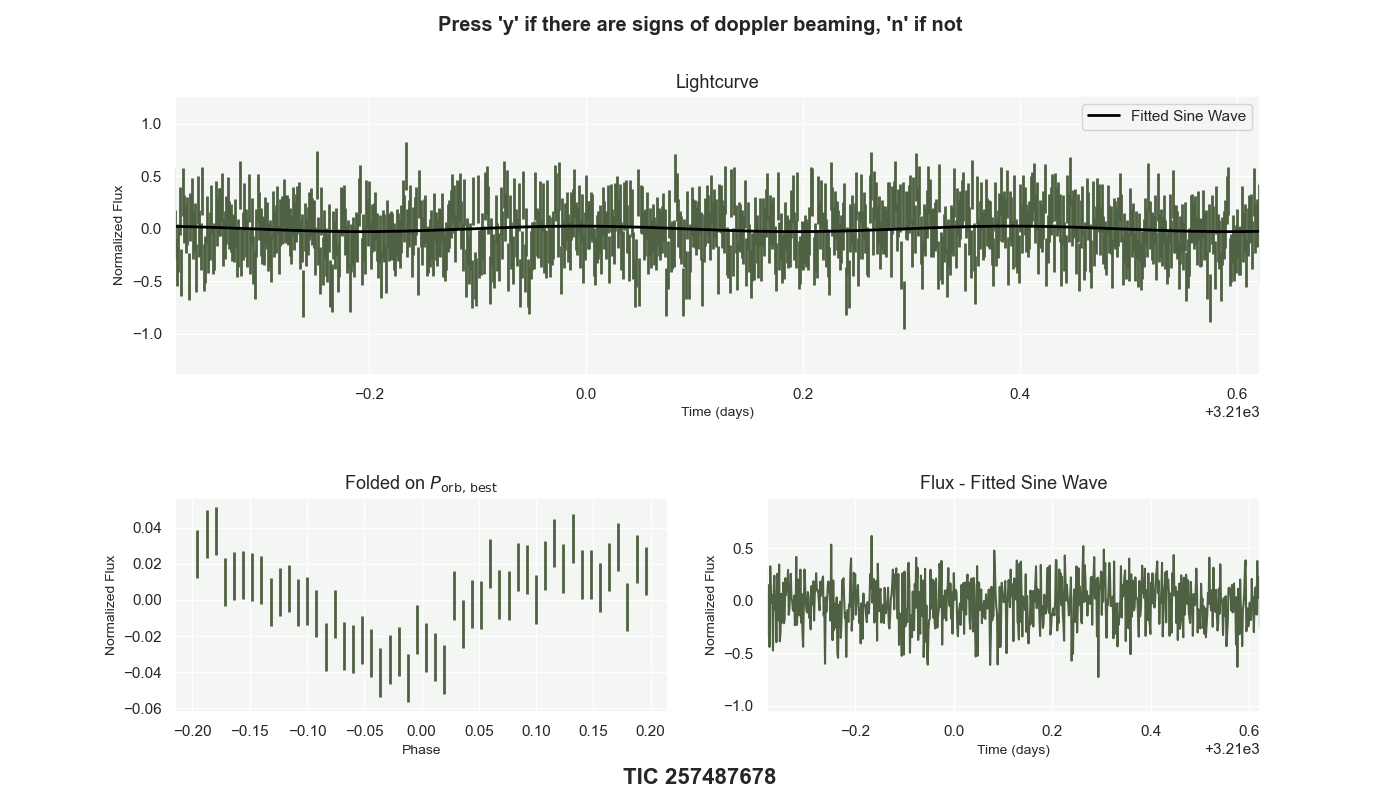
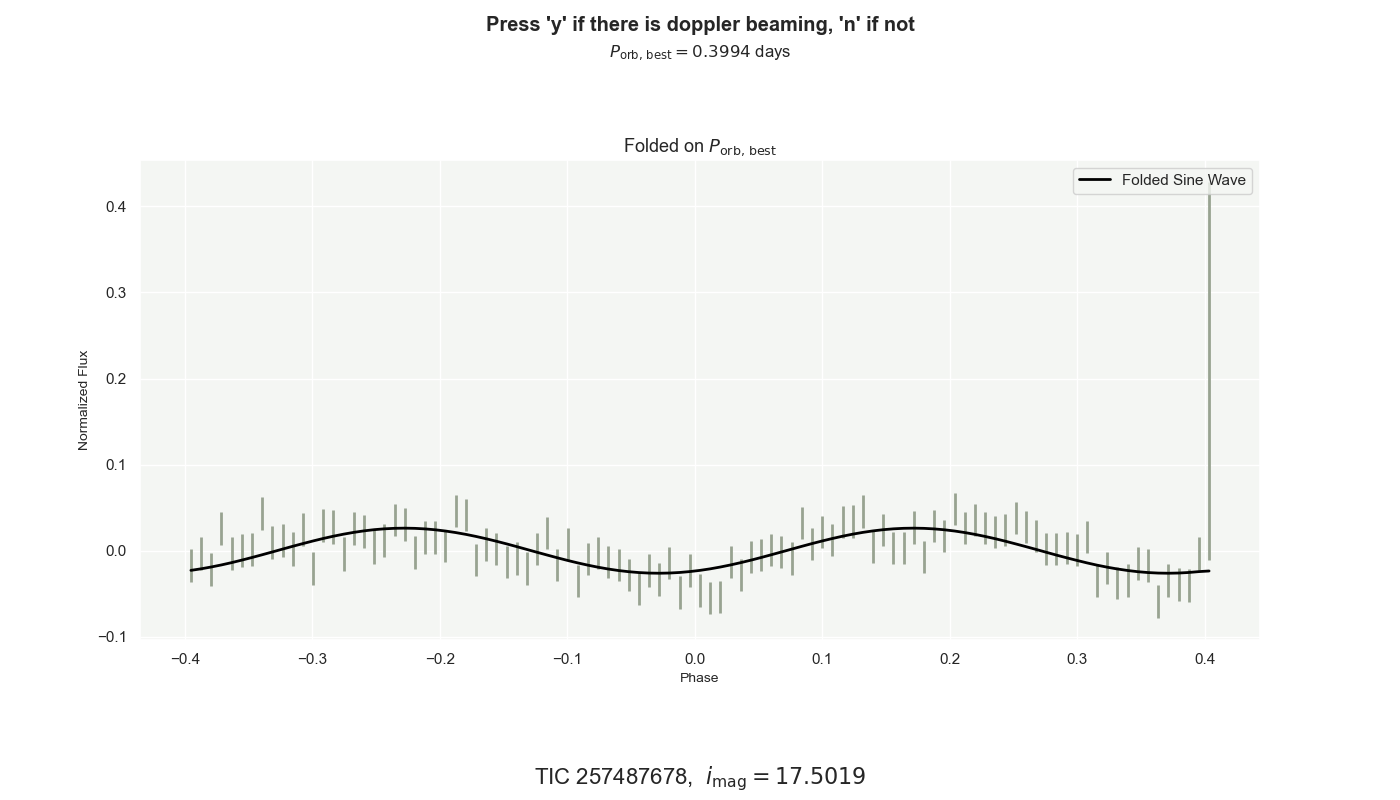
changing effects plot error

diff --git a/period_finding.py b/period_finding.py
@@ -11,9 +11,7 @@ import seaborn as sns
 # Global variables
 best_period_list = []
 period_bool_list = []
-transits_bool_list = []
-ellipsoidal_bool_list = [] 
-radiation_bool_list = []
+eclipsing_bool_list = []
 doppler_beaming_bool_list = []
 flare_bool_list = []
 
@@ -216,9 +214,7 @@ def sine_wave(x, amplitude, frequency, phase):
                 star_name: current star's TIC name
                 star_imag: current star's i magnitude 
     Returns:
-                binned_lightcurve: lightcurve folded on best period, put into 50 bins
                 result.best_fit: best fit sine wave for the lightcurve
-                sine_binned_lightcurve: best fit sine wave folded on the period, put into 50 bins
                 residuals: lightcurve flux - best fit sine wave
 """
 def period_selection_plots(lightcurve, periodogram, best_period, literature_period, star_name, star_imag):
@@ -310,7 +306,7 @@ def period_selection_plots(lightcurve, periodogram, best_period, literature_peri
     axs[1, 1].plot(time, residuals, color = '#9AADD0') # maybe make me into scatter
     axs[1, 1].set_xlim(min(time) + 1, min(time) + 2)
 
-    return binned_lightcurve, result.best_fit, sine_binned_lightcurve, residuals
+    return result.best_fit, residuals
 
 
 '''
@@ -330,7 +326,7 @@ def period_selection_plots(lightcurve, periodogram, best_period, literature_peri
     Returns:
                 None
 '''
-def effects_selection_plot(effect, lightcurve, periodogram, best_period, binned_lightcurve, sine_fit, sine_binned_lightcurve, residuals, star_name, star_imag):
+def effects_selection_plot(effect, lightcurve, periodogram, best_period, sine_fit, residuals, star_name, star_imag):
     # Lightcurve data
     time = lightcurve.time.value
 
@@ -342,60 +338,53 @@ def effects_selection_plot(effect, lightcurve, periodogram, best_period, binned_
     fig.text(0.5, 0.928, fr'$P_{{\text{{orb, best}}}}={np.round(best_period, 4)}$ days' , ha='center', fontsize=12)
     fig.text(0.5, 0.02, fr'{star_name},  $i_{{\text{{mag}}}}={star_imag}$', ha='center', fontsize=16)
 
-    # Plot titles
-    if effect == 'Transits' or effect == 'Radiation' or effect == 'Doppler beaming':
-        if effect == 'Transits':
-            plt.suptitle("Press 'y' if there are transits, 'n' if not", fontweight = 'bold')
-        elif effect == 'Radiation':
-            plt.suptitle("Press 'y' if there are signs of radiation, 'n' if not", fontweight = 'bold')
-        elif effect == 'Doppler beaming':
-            plt.suptitle("Press 'y' if there are signs of doppler beaming, 'n' if not", fontweight = 'bold')
+    if effect == 'Eclipsing':
+        plt.suptitle("Press 'y' if there are eclipses, 'n' if not", fontweight = 'bold')
 
-        # Plots for Transits, Radiation and Doppler Beaming
-        gs = gridspec.GridSpec(2, 2, height_ratios=[1.3, 1])
+        # Plots for Eclipsing
+        gs = gridspec.GridSpec(2, 2, height_ratios=[1, 1]) 
         ax1 = fig.add_subplot(gs[0, :])
         ax2 = fig.add_subplot(gs[1, 0])
         ax3 = fig.add_subplot(gs[1, 1])
         plt.subplots_adjust(hspace=0.5)
 
-        # Plot lightcurve with fit
+        # Bin lightcurve
+        phase_lightcurve = lightcurve.fold(period = best_period)
+        bin_value = find_bin_value(phase_lightcurve, 50)
+        binned_lightcurve = phase_lightcurve.bin(bin_value*u.min)
+
+        # Bin Sine Wave
+        sine_lightcurve = LightCurve(time = time, flux = sine_fit)
+        sine_phase_lightcurve = sine_lightcurve.fold(period = best_period)
+        sine_binned_lightcurve = sine_phase_lightcurve.bin(bin_value*u.min)
+
+        # Plot the lightcurve with sine fit
         ax1.set_title('Lightcurve', fontsize=13)
         ax1.set_xlabel('Time (days)', fontsize = 10)
         ax1.set_ylabel('Normalized Flux', fontsize = 10)
-        ax1.scatter(lightcurve.time.value, lightcurve.flux.value, color = '#98A391', s = 4)
-        ax1.plot(time, sine_fit, color= '#000000', lw = 2, label = 'Fitted Sine Wave')
-        ax1.set_xlim(min(time) + 1, min(time) + 5)
+        ax1.scatter(lightcurve.time.value, lightcurve.flux.value, color = '#98A391', s = 2)
+        ax1.plot(time, sine_fit, color= '#000000', lw = 1.5, label = 'Fitted Sine Wave')
         ax1.legend()
 
-        # Plot binned lightcurve
-        ax2.set_title(r'Folded on $P_{\text{orb, best}}$', fontsize=13)
-        ax2.set_xlabel('Phase', fontsize = 10)
-        ax2.set_ylabel('Normalized Flux', fontsize = 10)
-        ax2.vlines(binned_lightcurve.phase.value, 
+        # Plot the periodogram
+        ax2.set_title('Periodogram', fontsize=12)
+        ax2.set_xlabel(r'$P_{\text{orb}}$ (days)', fontsize=10)
+        ax2.set_ylabel('Power', fontsize=10)
+        ax2.plot(periodogram.period, periodogram.power, color = '#98A391')
+        ax2.axvline(x=best_period, color = '#000000', ls = (0, (4,5)), lw = 2,
+                            label = fr'$P_{{\text{{orb, max}}}}={np.round(best_period, 3)}$ days')
+        ax2.set_xscale('log') 
+        ax2.legend(loc = 'upper left')
+
+        # Plot the binned lightcurve
+        ax3.set_title(r'Folded on $P_{\text{orb, best}}$', fontsize=13)
+        ax3.set_xlabel('Phase', fontsize = 10)
+        ax3.set_ylabel('Normalized Flux', fontsize = 10)
+        ax3.vlines(binned_lightcurve.phase.value, 
                         binned_lightcurve.flux - binned_lightcurve.flux_err, 
                         binned_lightcurve.flux + binned_lightcurve.flux_err, color = '#98A391', lw=2)
-        ax2.plot(sine_binned_lightcurve.phase.value, sine_binned_lightcurve.flux.value, color = '#000000', lw = 2, label = 'Folded Sine Wave')
-        ax2.legend()
-
-        # Plot residuals
-        ax3.set_title('Flux - Fitted Sine Wave', fontsize=13)
-        ax3.set_xlabel('Time (days)', fontsize = 10)
-        ax3.set_ylabel('Normalized Flux', fontsize = 10)
-        ax3.scatter(time, residuals, color= '#98A391', s = 3) 
-        ax3.set_xlim(min(time) + 1, min(time) + 5)
-        
-    elif effect == 'Ellipsoidal':
-        plt.suptitle("Press 'y' if the periodogram is ellipsoidal, 'n' if not", fontweight = 'bold')
-        ax = fig.add_axes([0.1, 0.2, 0.8, 0.6])
-
-        # Plot for Ellipsodial
-        ax.set_title('Periodogram', fontsize=13)
-        ax.set_xlabel(r'$P_{\text{orb}}$ (days)', fontsize=10)
-        ax.set_ylabel('Power', fontsize=10)
-        ax.plot(periodogram.period, periodogram.power, color = '#98A391', lw = 1)
-        ax.axvline(x = best_period, color = "#000000", ls = (0, (4,5)), lw = 2, label = fr'$P_{{\text{{orb, best}}}}={np.round(best_period, 3)}$ days') 
-        ax.set_xscale('log') 
-        ax.legend(loc = 'upper left')
+        ax3.plot(sine_binned_lightcurve.phase.value, sine_binned_lightcurve.flux.value, color = '#000000', lw = 2, label = 'Folded Sine Wave')
+        ax3.legend()
 
     elif effect == 'Flares':
         plt.suptitle("Press 'y' if there are flares, 'n' if not", fontweight = 'bold')
@@ -410,21 +399,42 @@ def effects_selection_plot(effect, lightcurve, periodogram, best_period, binned_
         ax1.set_title('Lightcurve', fontsize=13)
         ax1.set_xlabel('Time (days)', fontsize = 10)
         ax1.set_ylabel('Normalized Flux', fontsize = 10)
-        ax1.scatter(lightcurve.time.value, lightcurve.flux.value, color = '#98A391', s = 4)
-        ax1.plot(time, sine_fit, color= '#000000', lw = 2, label = 'Fitted Sine Wave')
-        ax1.set_xlim(min(time) + 1, min(time) + 5)
+        ax1.scatter(lightcurve.time.value, lightcurve.flux.value, color = '#98A391', s = 2)
+        ax1.plot(time, sine_fit, color= '#000000', lw = 1.5, label = 'Fitted Sine Wave')
         ax1.legend()
 
         # Plot residuals
         ax2.set_title('Flux - Fitted Sine Wave', fontsize=13)
         ax2.set_xlabel('Time (days)', fontsize = 10)
         ax2.set_ylabel('Normalized Flux', fontsize = 10)
-        # ax2.scatter(time, residuals, color= '#4E6142', s = 2) 
         ax2.plot(time, residuals, color= '#98A391', lw = 1)
-        ax2.set_xlim(min(time) + 1, min(time) + 5)
+
+    elif effect == 'Doppler beaming':
+        plt.suptitle("Press 'y' if there is doppler beaming, 'n' if not", fontweight = 'bold')
+        ax = fig.add_axes([0.1, 0.2, 0.8, 0.6])
+
+        # Bin lightcurve
+        phase_lightcurve = lightcurve.fold(period = 2*best_period) # CHECK ME MISS GIRL
+        bin_value = find_bin_value(phase_lightcurve, 100)
+        binned_lightcurve = phase_lightcurve.bin(bin_value*u.min)
+
+        # Bin sine wave
+        sine_lightcurve = LightCurve(time = time, flux = sine_fit) # CHECK ME MISS GIRL
+        sine_phase_lightcurve = sine_lightcurve.fold(period = 2*best_period)
+        sine_binned_lightcurve = sine_phase_lightcurve.bin(bin_value*u.min)
+
+        # Plot the binned lightcurve
+        ax.set_title(r'Folded on $P_{\text{orb, best}}$', fontsize=13)
+        ax.set_xlabel('Phase', fontsize = 10)
+        ax.set_ylabel('Normalized Flux', fontsize = 10)
+        ax.vlines(binned_lightcurve.phase.value, 
+                        binned_lightcurve.flux - binned_lightcurve.flux_err, 
+                        binned_lightcurve.flux + binned_lightcurve.flux_err, color = '#98A391', lw=2)
+        ax.plot(sine_binned_lightcurve.phase.value, sine_binned_lightcurve.flux.value, color = '#000000', lw = 2, label = 'Folded Sine Wave')
+        ax.legend()
 
     else: 
-        print("Invalid effect, must be 'Transits', 'Ellipsoidal', 'Radiation', or 'Doppler beaming'")
+        print("Invalid effect, must be 'Eclipsing', 'Flares', or 'Doppler beaming'")
 
 
 """
@@ -460,25 +470,11 @@ def on_key(event, purpose):
                 print('Period is not real, loading next plot ... \n')
             plt.close()
 
-    elif purpose == 'Transits':
+    elif purpose == 'Eclipsing':
         if event.key not in y_n_keys:
             print("Invalid key input, select 'y' or 'n'")
         else:
-            transits_bool_list.append(event.key == 'y') 
-            plt.close()
-
-    elif purpose == 'Ellipsoidal':
-        if event.key not in y_n_keys:
-            print("Invalid key input, select 'y' or 'n'")
-        else:
-            ellipsoidal_bool_list.append(event.key == 'y')
-            plt.close()
-
-    elif purpose == 'Radiation':
-        if event.key not in y_n_keys:
-            print("Invalid key input, select 'y' or 'n'")
-        else:
-            radiation_bool_list.append(event.key == 'y')
+            eclipsing_bool_list.append(event.key == 'y') 
             plt.close()
 
     elif purpose == 'Doppler beaming':

diff --git a/prerun.py b/prerun.py
@@ -1,4 +1,5 @@
 import lightkurve as lk
+import math
 import matplotlib.image as mpimg
 import os
 from os.path import exists
@@ -10,8 +11,8 @@ from period_finding import *
 
 
 star_data_filename = 'preload/all_star_data.csv'
-folders = ['transit_plots', 'flare_plots', 'radiation_plots', 'doppler_plots', 'ellipsoidal_plots'] # make sure lightcurve_effects matches below order!!!
-lightcurve_effects = ['Transits', 'Flares', 'Radiation', 'Doppler beaming', 'Ellipsoidal']
+folders = ['eclipsing_plots', 'flare_plots', 'doppler_plots'] # make sure lightcurve_effects matches below order!!!
+lightcurve_effects = ['Eclipsing', 'Flares', 'Doppler beaming']
 
 """
     Saves images of all plots to be iterated through later
@@ -49,9 +50,7 @@ def preload_plots(df, cadence):
         # Check if plot already exists
         if exists(period_plot_filename):
             os.remove(period_plot_filename)
-            os.remove('preload/transit_plots/' + star_name + '.png')
-            os.remove('preload/ellipsoidal_plots/' + star_name + '.png')
-            os.remove('preload/radiation_plots/' + star_name + '.png')
+            os.remove('preload/eclipsing_plots/' + star_name + '.png')
             os.remove('preload/doppler_plots/' + star_name + '.png')
             os.remove('preload/flare_plots/' + star_name + '.png')
 
@@ -62,18 +61,18 @@ def preload_plots(df, cadence):
         
         # Save period plot
         best_period = periodogram.period_at_max_power.value 
-        binned_lightcurve, sine_fit, sine_binned_lightcurve, residuals = period_selection_plots(lightcurve, periodogram, best_period, literature_period, star_name, star_imag)
+        sine_fit, residuals = period_selection_plots(lightcurve, periodogram, best_period, literature_period, star_name, star_imag)
         plt.savefig(period_plot_filename)
         plt.close()
 
         # Save effects plots
         for i, effect in enumerate(lightcurve_effects):
-            effects_selection_plot(effect, lightcurve, periodogram, best_period, binned_lightcurve, sine_fit, sine_binned_lightcurve, residuals, star_name, star_imag)
+            effects_selection_plot(effect, lightcurve, periodogram, best_period, sine_fit, residuals, star_name, star_imag)
             plt.savefig('preload/' + folders[i] + '/' + star_name + '.png')
             plt.close()
 
         # Save star data to the csv
-        row = {'Star' : star_name, 'Orbital Period(days)' : best_period, 'i Magnitude': star_imag}
+        row = {'Star' : star_name, 'Orbital Period(days)' : best_period, 'Literature Period(days)': literature_period, 'i Magnitude': star_imag}
         append_to_csv(star_data_filename, row)
 
 
@@ -87,7 +86,7 @@ def preload_plots(df, cadence):
 """
 def load_plots():
     # Load all plot images in the directory
-    images = [i for i in os.listdir('preload/period_plots')]
+    images = [i for i in os.listdir('preload/period_plots') if i.startswith('TIC')]
 
     # Load dataframe
     stars_df = pd.read_csv(star_data_filename)
@@ -127,15 +126,26 @@ def load_plots():
         
         # Get star data from csv
         star_row = stars_df.loc[stars_df['Star'] == star_name]
+
+        # Check for irradidation and ellipsodial
+        irradiation, ellipsodial = False, False
+        literature_period = star_row['Literature Period(days)'].values[0]
+        best_period = star_row['Orbital Period(days)'].values[0]
+        if literature_period != 0.0:
+            # Irradiation if literature period = best_period
+            if math.isclose(np.abs(best_period - literature_period), 0, rel_tol=1e-2): # maybe change tolerance
+                irradiation = True
+            elif math.isclose(np.abs(best_period / literature_period), 0.5, rel_tol=1e-2):
+                ellipsodial = True
         
         # Save data to csv
         curr_index = len(doppler_beaming_bool_list) - 1
         row = {'Star' : star_name, 
-                'Orbital Period(days)' : star_row['Orbital Period(days)'].values[0],
+                'Orbital Period(days)' : best_period,
                 'i Magnitude': star_row['i Magnitude'].values[0],
-                'Transits': transits_bool_list[curr_index],
+                'Eclipsing': eclipsing_bool_list[curr_index],
                 'Flares': flare_bool_list[curr_index],
-                'Radiation': radiation_bool_list[curr_index],
+                'Irradiation': irradiation,
                 'Doppler beaming': doppler_beaming_bool_list[curr_index],
-                'Ellipsoidal': ellipsoidal_bool_list[curr_index]} # will only hit this line if the period is real
+                'Ellipsoidal': ellipsodial} # will only hit this line if the period is real
         append_to_csv(porb_filename, row)

diff --git a/main.py b/main.py
@@ -1,5 +1,6 @@
 import astropy.units as u
 import lightkurve as lk
+import math
 import matplotlib.pyplot as plt
 import os
 from os.path import exists
@@ -12,7 +13,7 @@ from period_finding import *
 
 def main():
     # Choose how to run
-    preload = False # if you want to preload all plots before selecting periods
+    preload = True # if you want to preload all plots before selecting periods
     autopilot = False # have the computer do all the work for you 
 
     # Cadence wanting to use
@@ -66,26 +67,35 @@ def main():
             if not best_period: continue
 
             # Make period plot
-            binned_lightcurve, sine_fit, sine_binned_lightcurve, residuals = period_selection_plots(lightcurve, periodogram, best_period, literature_period, star_name, star_imag)
+            sine_fit, residuals = period_selection_plots(lightcurve, periodogram, best_period, literature_period, star_name, star_imag)
             plt.show()
             if not period_bool_list[len(period_bool_list) - 1]: continue
 
             # Make lightcurve effects plot
-            lightcurve_effects = ['Transits', 'Flares', 'Radiation', 'Doppler beaming', 'Ellipsoidal'] # maybe make me a global?
             for effect in lightcurve_effects:
-                effects_selection_plot(effect, lightcurve, periodogram, best_period, binned_lightcurve, sine_fit, sine_binned_lightcurve, residuals, star_name, star_imag)
+                effects_selection_plot(effect, lightcurve, periodogram, best_period, sine_fit, residuals, star_name, star_imag)
                 plt.show()
+            
+            # Check for irradidation and ellipsodial
+            irradiation, ellipsodial = False, False
+            if literature_period != 0.0:
+                # Irradiation if literature period = best_period
+                if math.isclose(np.abs(best_period - literature_period), 0, rel_tol=1e-2): # maybe change tolerance
+                    irradiation = True
+                elif math.isclose(np.abs(best_period / literature_period), 0.5, rel_tol=1e-2):
+                    ellipsodial = True
 
             # Save data to csv
             curr_index = len(doppler_beaming_bool_list) - 1
             row = {'Star' : star_name, 
                    'Orbital Period(days)' : best_period,
+                   'Literature Period(days)': literature_period,
                    'i Magnitude': star_imag,
-                   'Transits': transits_bool_list[curr_index],
+                   'Eclipsing': eclipsing_bool_list[curr_index],
                    'Flares': flare_bool_list[curr_index],
-                   'Radiation': radiation_bool_list[curr_index],
+                   'Irradiation': irradiation,
                    'Doppler beaming': doppler_beaming_bool_list[curr_index],
-                   'Ellipsoidal': ellipsoidal_bool_list[curr_index]} # will only hit this line if the period is real
+                   'Ellipsoidal': ellipsodial} # will only hit this line if the period is real
             append_to_csv(porb_filename, row)
 
 

diff --git a/file_editing.py b/file_editing.py
@@ -45,7 +45,7 @@ def append_to_csv(filename, row):
     
     # Open file in append mode
     with open(filename, 'a', newline='') as csvfile:
-        fieldnames = ['Star', 'Orbital Period(days)', 'i Magnitude', 'Transits', 'Flares', 'Radiation', 'Doppler beaming', 'Ellipsoidal']
+        fieldnames = ['Star', 'Orbital Period(days)', 'Literature Period(days)', 'i Magnitude', 'Eclipsing', 'Flares', 'Irradiation', 'Doppler beaming', 'Ellipsoidal']
         writer = csv.DictWriter(csvfile, fieldnames=fieldnames)
 
         # Write header if file doesn't exist
